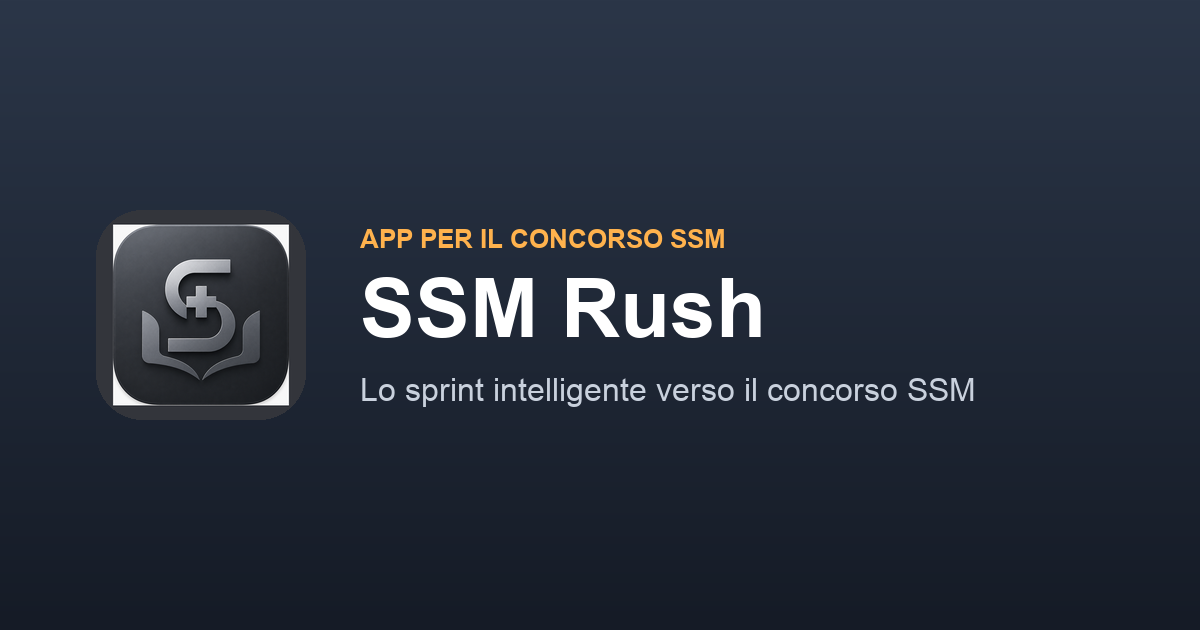
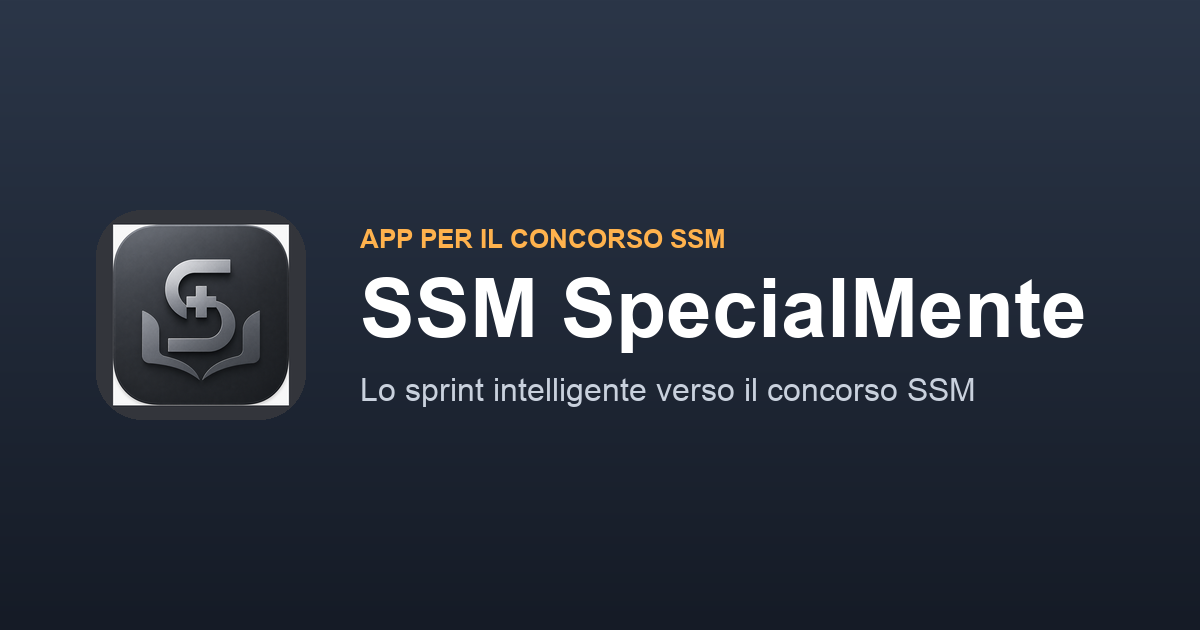
Rebrand to SSM SpecialMente

Changed region(s): [[0.4625, 0.4222, 0.925, 0.573]]

diff --git a/index.html b/index.html
@@ -1,4 +1,4 @@
-<!doctype html><html lang="it"><head><meta charset="utf-8"><meta name="viewport" content="width=device-width, initial-scale=1"><title>SSM Rush — App per il concorso SSM: quiz, simulazioni e ripasso</title><meta name="description" content="App offline per la preparazione al concorso di Specializzazione in Medicina (SSM): oltre 3.000 quesiti, simulazioni d&#x27;esame, coach adattivo e ripasso distanziato. Per iPhone e Android."><meta name="robots" content="noindex, nofollow"><link rel="canonical" href="https://neuronbuilds.github.io/ssmrush/"><meta name="theme-color" content="#222c3a"><link rel="icon" href="img/favicon.png"><meta property="og:type" content="website"><meta property="og:site_name" content="SSM Rush"><meta property="og:locale" content="it_IT"><meta property="og:title" content="SSM Rush — App per il concorso SSM: quiz, simulazioni e ripasso"><meta property="og:description" content="App offline per la preparazione al concorso di Specializzazione in Medicina (SSM): oltre 3.000 quesiti, simulazioni d&#x27;esame, coach adattivo e ripasso distanziato. Per iPhone e Android."><meta property="og:url" content="https://neuronbuilds.github.io/ssmrush/"><meta property="og:image" content="https://neuronbuilds.github.io/ssmrush/img/og-image.png"><meta property="og:image:width" content="1200"><meta property="og:image:height" content="630"><meta name="twitter:card" content="summary_large_image"><meta name="twitter:title" content="SSM Rush — App per il concorso SSM: quiz, simulazioni e ripasso"><meta name="twitter:description" content="App offline per la preparazione al concorso di Specializzazione in Medicina (SSM): oltre 3.000 quesiti, simulazioni d&#x27;esame, coach adattivo e ripasso distanziato. Per iPhone e Android."><meta name="twitter:image" content="https://neuronbuilds.github.io/ssmrush/img/og-image.png"><style>
+<!doctype html><html lang="it"><head><meta charset="utf-8"><meta name="viewport" content="width=device-width, initial-scale=1"><title>SSM SpecialMente — App per il concorso SSM: quiz, simulazioni e ripasso</title><meta name="description" content="App offline per la preparazione al concorso di Specializzazione in Medicina (SSM): oltre 3.000 quesiti, simulazioni d&#x27;esame, coach adattivo e ripasso distanziato. Per iPhone e Android."><meta name="robots" content="noindex, nofollow"><link rel="canonical" href="https://neuronbuilds.github.io/ssmrush/"><meta name="theme-color" content="#222c3a"><link rel="icon" href="img/favicon.png"><meta property="og:type" content="website"><meta property="og:site_name" content="SSM SpecialMente"><meta property="og:locale" content="it_IT"><meta property="og:title" content="SSM SpecialMente — App per il concorso SSM: quiz, simulazioni e ripasso"><meta property="og:description" content="App offline per la preparazione al concorso di Specializzazione in Medicina (SSM): oltre 3.000 quesiti, simulazioni d&#x27;esame, coach adattivo e ripasso distanziato. Per iPhone e Android."><meta property="og:url" content="https://neuronbuilds.github.io/ssmrush/"><meta property="og:image" content="https://neuronbuilds.github.io/ssmrush/img/og-image.png"><meta property="og:image:width" content="1200"><meta property="og:image:height" content="630"><meta name="twitter:card" content="summary_large_image"><meta name="twitter:title" content="SSM SpecialMente — App per il concorso SSM: quiz, simulazioni e ripasso"><meta name="twitter:description" content="App offline per la preparazione al concorso di Specializzazione in Medicina (SSM): oltre 3.000 quesiti, simulazioni d&#x27;esame, coach adattivo e ripasso distanziato. Per iPhone e Android."><meta name="twitter:image" content="https://neuronbuilds.github.io/ssmrush/img/og-image.png"><style>
 :root{--bg:#f4f6f9;--card:#fff;--ink:#1f2733;--muted:#5b6472;--accent:#e87a00;--accent2:#ffb24d;--navy:#222c3a;--deep:#151b26;--line:#e6e9ee}
 *{box-sizing:border-box}html{scroll-behavior:smooth}
 body{margin:0;background:var(--bg);color:var(--ink);font:16px/1.65 -apple-system,BlinkMacSystemFont,"Segoe UI",Roboto,Helvetica,Arial,sans-serif;-webkit-font-smoothing:antialiased}
@@ -46,11 +46,11 @@ footer .small{font-size:12.5px;color:#7f8896;max-width:620px;margin:16px auto 0;
 .owner{background:#fbf3e6;border-left:4px solid var(--accent);border-radius:8px;padding:12px 16px;font-size:14.5px;margin:0 0 1.2em}
 .card ul{padding-left:1.2em}.card li{margin:.3em 0}
 @media(max-width:720px){.hero h1{font-size:36px}.why,.feat{grid-template-columns:1fr}.nav a.hidem{display:none}}
-</style></head><body><div class="nav"><div class="in"><div class="logo">SSM</div><b>SSM Rush</b><span class="sp"></span><a href="privacy.html">Privacy</a><a href="supporto.html">Supporto</a></div></div>
+</style></head><body><div class="nav"><div class="in"><div class="logo">SSM</div><b>SSM SpecialMente</b><span class="sp"></span><a href="privacy.html">Privacy</a><a href="supporto.html">Supporto</a></div></div>
 <header class="hero" style="padding:118px 20px 128px">
-  <img class="icon" src="img/icon.png" alt="Icona SSM Rush">
+  <img class="icon" src="img/icon.png" alt="Icona SSM SpecialMente">
   <div class="eyebrow">Concorso SSM · Preparazione</div>
-  <h1>SSM Rush</h1>
+  <h1>SSM SpecialMente</h1>
   <p class="lead">Presto disponibile.</p>
   <p class="sub">L'app per la preparazione al concorso SSM — oltre 3.000 quesiti, simulazioni d'esame e coach adattivo, tutto offline — sta arrivando su App Store e Google Play.</p>
   <div class="badges">

diff --git a/privacy.html b/privacy.html
@@ -1,4 +1,4 @@
-<!doctype html><html lang="it"><head><meta charset="utf-8"><meta name="viewport" content="width=device-width, initial-scale=1"><title>Privacy — SSM Rush</title><meta name="description" content="Informativa sulla privacy dell&#x27;app SSM Rush: nessun dato personale raccolto, tutto offline. Titolare: Arianna Cocchiglia (Neuron Builds)."><meta name="robots" content="noindex, nofollow"><link rel="canonical" href="https://neuronbuilds.github.io/ssmrush/privacy.html"><meta name="theme-color" content="#222c3a"><link rel="icon" href="img/favicon.png"><meta property="og:type" content="website"><meta property="og:site_name" content="SSM Rush"><meta property="og:locale" content="it_IT"><meta property="og:title" content="Privacy — SSM Rush"><meta property="og:description" content="Informativa sulla privacy dell&#x27;app SSM Rush: nessun dato personale raccolto, tutto offline. Titolare: Arianna Cocchiglia (Neuron Builds)."><meta property="og:url" content="https://neuronbuilds.github.io/ssmrush/privacy.html"><meta property="og:image" content="https://neuronbuilds.github.io/ssmrush/img/og-image.png"><meta property="og:image:width" content="1200"><meta property="og:image:height" content="630"><meta name="twitter:card" content="summary_large_image"><meta name="twitter:title" content="Privacy — SSM Rush"><meta name="twitter:description" content="Informativa sulla privacy dell&#x27;app SSM Rush: nessun dato personale raccolto, tutto offline. Titolare: Arianna Cocchiglia (Neuron Builds)."><meta name="twitter:image" content="https://neuronbuilds.github.io/ssmrush/img/og-image.png"><style>
+<!doctype html><html lang="it"><head><meta charset="utf-8"><meta name="viewport" content="width=device-width, initial-scale=1"><title>Privacy — SSM SpecialMente</title><meta name="description" content="Informativa sulla privacy dell&#x27;app SSM SpecialMente: nessun dato personale raccolto, tutto offline. Titolare: Arianna Cocchiglia (Neuron Builds)."><meta name="robots" content="noindex, nofollow"><link rel="canonical" href="https://neuronbuilds.github.io/ssmrush/privacy.html"><meta name="theme-color" content="#222c3a"><link rel="icon" href="img/favicon.png"><meta property="og:type" content="website"><meta property="og:site_name" content="SSM SpecialMente"><meta property="og:locale" content="it_IT"><meta property="og:title" content="Privacy — SSM SpecialMente"><meta property="og:description" content="Informativa sulla privacy dell&#x27;app SSM SpecialMente: nessun dato personale raccolto, tutto offline. Titolare: Arianna Cocchiglia (Neuron Builds)."><meta property="og:url" content="https://neuronbuilds.github.io/ssmrush/privacy.html"><meta property="og:image" content="https://neuronbuilds.github.io/ssmrush/img/og-image.png"><meta property="og:image:width" content="1200"><meta property="og:image:height" content="630"><meta name="twitter:card" content="summary_large_image"><meta name="twitter:title" content="Privacy — SSM SpecialMente"><meta name="twitter:description" content="Informativa sulla privacy dell&#x27;app SSM SpecialMente: nessun dato personale raccolto, tutto offline. Titolare: Arianna Cocchiglia (Neuron Builds)."><meta name="twitter:image" content="https://neuronbuilds.github.io/ssmrush/img/og-image.png"><style>
 :root{--bg:#f4f6f9;--card:#fff;--ink:#1f2733;--muted:#5b6472;--accent:#e87a00;--accent2:#ffb24d;--navy:#222c3a;--deep:#151b26;--line:#e6e9ee}
 *{box-sizing:border-box}html{scroll-behavior:smooth}
 body{margin:0;background:var(--bg);color:var(--ink);font:16px/1.65 -apple-system,BlinkMacSystemFont,"Segoe UI",Roboto,Helvetica,Arial,sans-serif;-webkit-font-smoothing:antialiased}
@@ -46,8 +46,8 @@ footer .small{font-size:12.5px;color:#7f8896;max-width:620px;margin:16px auto 0;
 .owner{background:#fbf3e6;border-left:4px solid var(--accent);border-radius:8px;padding:12px 16px;font-size:14.5px;margin:0 0 1.2em}
 .card ul{padding-left:1.2em}.card li{margin:.3em 0}
 @media(max-width:720px){.hero h1{font-size:36px}.why,.feat{grid-template-columns:1fr}.nav a.hidem{display:none}}
-</style></head><body><div class="nav"><div class="in"><div class="logo">SSM</div><b>SSM Rush</b><span class="sp"></span><a href="privacy.html">Privacy</a><a href="supporto.html">Supporto</a></div></div><div class="wrap"><main class="card"><h1>Informativa sulla Privacy</h1><p class="updated">Ultimo aggiornamento: giugno 2026</p><p class="owner"><strong>Titolare del trattamento:</strong> Arianna Cocchiglia (operante come <em>Neuron Builds</em>) — Via Luigi Lucatello 2, 35121 Padova (PD), Italia — <a href="mailto:[email redacted]">[email redacted]</a></p><h2>In breve</h2>
-<p><strong>SSM Rush non raccoglie, non trasmette e non condivide alcun dato personale.</strong> L&#x27;app funziona interamente <strong>offline</strong>: tutto ciò che riguarda il tuo utilizzo resta <strong>solo sul tuo dispositivo</strong>.</p>
+</style></head><body><div class="nav"><div class="in"><div class="logo">SSM</div><b>SSM SpecialMente</b><span class="sp"></span><a href="privacy.html">Privacy</a><a href="supporto.html">Supporto</a></div></div><div class="wrap"><main class="card"><h1>Informativa sulla Privacy</h1><p class="updated">Ultimo aggiornamento: giugno 2026</p><p class="owner"><strong>Titolare del trattamento:</strong> Arianna Cocchiglia (operante come <em>Neuron Builds</em>) — Via Luigi Lucatello 2, 35121 Padova (PD), Italia — <a href="mailto:[email redacted]">[email redacted]</a></p><h2>In breve</h2>
+<p><strong>SSM SpecialMente non raccoglie, non trasmette e non condivide alcun dato personale.</strong> L&#x27;app funziona interamente <strong>offline</strong>: tutto ciò che riguarda il tuo utilizzo resta <strong>solo sul tuo dispositivo</strong>.</p>
 <h2>Dati che NON raccogliamo</h2>
 <p>Non chiediamo registrazione né login. Non raccogliamo nome, cognome, email, numero di telefono, posizione, contatti, foto, identificativi pubblicitari o del dispositivo. Non utilizziamo cookie, sistemi di analytics o tracciamento, né pubblicità.</p>
 <h2>Dati salvati solo sul tuo dispositivo</h2>

diff --git a/supporto.html b/supporto.html
@@ -1,4 +1,4 @@
-<!doctype html><html lang="it"><head><meta charset="utf-8"><meta name="viewport" content="width=device-width, initial-scale=1"><title>Supporto e FAQ — SSM Rush</title><meta name="description" content="Assistenza e domande frequenti su SSM Rush, l&#x27;app offline per la preparazione al concorso SSM. Contatto: [email redacted]."><meta name="robots" content="noindex, nofollow"><link rel="canonical" href="https://neuronbuilds.github.io/ssmrush/supporto.html"><meta name="theme-color" content="#222c3a"><link rel="icon" href="img/favicon.png"><meta property="og:type" content="website"><meta property="og:site_name" content="SSM Rush"><meta property="og:locale" content="it_IT"><meta property="og:title" content="Supporto e FAQ — SSM Rush"><meta property="og:description" content="Assistenza e domande frequenti su SSM Rush, l&#x27;app offline per la preparazione al concorso SSM. Contatto: [email redacted]."><meta property="og:url" content="https://neuronbuilds.github.io/ssmrush/supporto.html"><meta property="og:image" content="https://neuronbuilds.github.io/ssmrush/img/og-image.png"><meta property="og:image:width" content="1200"><meta property="og:image:height" content="630"><meta name="twitter:card" content="summary_large_image"><meta name="twitter:title" content="Supporto e FAQ — SSM Rush"><meta name="twitter:description" content="Assistenza e domande frequenti su SSM Rush, l&#x27;app offline per la preparazione al concorso SSM. Contatto: [email redacted]."><meta name="twitter:image" content="https://neuronbuilds.github.io/ssmrush/img/og-image.png"><style>
+<!doctype html><html lang="it"><head><meta charset="utf-8"><meta name="viewport" content="width=device-width, initial-scale=1"><title>Supporto e FAQ — SSM SpecialMente</title><meta name="description" content="Assistenza e domande frequenti su SSM SpecialMente, l&#x27;app offline per la preparazione al concorso SSM. Contatto: [email redacted]."><meta name="robots" content="noindex, nofollow"><link rel="canonical" href="https://neuronbuilds.github.io/ssmrush/supporto.html"><meta name="theme-color" content="#222c3a"><link rel="icon" href="img/favicon.png"><meta property="og:type" content="website"><meta property="og:site_name" content="SSM SpecialMente"><meta property="og:locale" content="it_IT"><meta property="og:title" content="Supporto e FAQ — SSM SpecialMente"><meta property="og:description" content="Assistenza e domande frequenti su SSM SpecialMente, l&#x27;app offline per la preparazione al concorso SSM. Contatto: [email redacted]."><meta property="og:url" content="https://neuronbuilds.github.io/ssmrush/supporto.html"><meta property="og:image" content="https://neuronbuilds.github.io/ssmrush/img/og-image.png"><meta property="og:image:width" content="1200"><meta property="og:image:height" content="630"><meta name="twitter:card" content="summary_large_image"><meta name="twitter:title" content="Supporto e FAQ — SSM SpecialMente"><meta name="twitter:description" content="Assistenza e domande frequenti su SSM SpecialMente, l&#x27;app offline per la preparazione al concorso SSM. Contatto: [email redacted]."><meta name="twitter:image" content="https://neuronbuilds.github.io/ssmrush/img/og-image.png"><style>
 :root{--bg:#f4f6f9;--card:#fff;--ink:#1f2733;--muted:#5b6472;--accent:#e87a00;--accent2:#ffb24d;--navy:#222c3a;--deep:#151b26;--line:#e6e9ee}
 *{box-sizing:border-box}html{scroll-behavior:smooth}
 body{margin:0;background:var(--bg);color:var(--ink);font:16px/1.65 -apple-system,BlinkMacSystemFont,"Segoe UI",Roboto,Helvetica,Arial,sans-serif;-webkit-font-smoothing:antialiased}
@@ -46,11 +46,11 @@ footer .small{font-size:12.5px;color:#7f8896;max-width:620px;margin:16px auto 0;
 .owner{background:#fbf3e6;border-left:4px solid var(--accent);border-radius:8px;padding:12px 16px;font-size:14.5px;margin:0 0 1.2em}
 .card ul{padding-left:1.2em}.card li{margin:.3em 0}
 @media(max-width:720px){.hero h1{font-size:36px}.why,.feat{grid-template-columns:1fr}.nav a.hidem{display:none}}
-</style></head><body><div class="nav"><div class="in"><div class="logo">SSM</div><b>SSM Rush</b><span class="sp"></span><a href="privacy.html">Privacy</a><a href="supporto.html">Supporto</a></div></div><div class="wrap"><main class="card"><h1>Supporto</h1><p>Hai bisogno di aiuto con <strong>SSM Rush</strong>? Siamo qui.</p>
+</style></head><body><div class="nav"><div class="in"><div class="logo">SSM</div><b>SSM SpecialMente</b><span class="sp"></span><a href="privacy.html">Privacy</a><a href="supporto.html">Supporto</a></div></div><div class="wrap"><main class="card"><h1>Supporto</h1><p>Hai bisogno di aiuto con <strong>SSM SpecialMente</strong>? Siamo qui.</p>
 <p><strong>Contatto:</strong> <a href="mailto:[email redacted]">[email redacted]</a> <strong>Tempi di risposta:</strong> in genere entro 2–3 giorni lavorativi.</p>
 <p>Quando ci scrivi, indica il <strong>modello del dispositivo</strong> e la <strong>versione del sistema operativo</strong>: ci aiuta a risponderti più in fretta.</p>
 <h2>Domande frequenti</h2>
-<p><strong>Serve una connessione a internet?</strong> No. SSM Rush funziona completamente offline: tutti i contenuti sono già inclusi nell&#x27;app.</p>
+<p><strong>Serve una connessione a internet?</strong> No. SSM SpecialMente funziona completamente offline: tutti i contenuti sono già inclusi nell&#x27;app.</p>
 <p><strong>Devo creare un account o registrarmi?</strong> No. Non c&#x27;è alcun login: apri l&#x27;app e tutte le funzioni sono subito disponibili.</p>
 <p><strong>Raccogliete i miei dati?</strong> No. L&#x27;app non raccoglie né trasmette dati personali; i progressi restano solo sul tuo dispositivo. Vedi l&#x27;Informativa sulla Privacy.</p>
 <p><strong>Come azzero i miei progressi e le statistiche?</strong> Dalla sezione <strong>Progressi</strong> dell&#x27;app, usa la funzione <strong>&quot;Azzera statistiche&quot;</strong>. In alternativa, disinstallando l&#x27;app rimuovi tutti i dati locali.</p>

diff --git a/build_site.py b/build_site.py
@@ -1,6 +1,6 @@
 #!/usr/bin/env python3
 """
-Genera il sito web di SSM Rush (landing + Privacy + Supporto), pronto per GitHub Pages.
+Genera il sito web di SSM SpecialMente (landing + Privacy + Supporto), pronto per GitHub Pages.
 - Prepara le immagini (icona + screenshot) in site/img/ dai file in ../store-assets/
 - Scrive index.html (landing marketing) + privacy.html + supporto.html
 Fonte testi legali: ../legal/*.md   ·   Uso: python3 site/build_site.py
@@ -23,16 +23,16 @@ COMING_SOON = True
 # Per-page SEO metadata (keyword-rich, unique titles + descriptions)
 META = {
     "index.html": dict(
-        title="SSM Rush — App per il concorso SSM: quiz, simulazioni e ripasso",
+        title="SSM SpecialMente — App per il concorso SSM: quiz, simulazioni e ripasso",
         desc="App offline per la preparazione al concorso di Specializzazione in Medicina (SSM): oltre 3.000 quesiti, simulazioni d'esame, coach adattivo e ripasso distanziato. Per iPhone e Android.",
         app=True, prio="1.0"),
     "privacy.html": dict(
-        title="Privacy — SSM Rush",
-        desc="Informativa sulla privacy dell'app SSM Rush: nessun dato personale raccolto, tutto offline. Titolare: Arianna Cocchiglia (Neuron Builds).",
+        title="Privacy — SSM SpecialMente",
+        desc="Informativa sulla privacy dell'app SSM SpecialMente: nessun dato personale raccolto, tutto offline. Titolare: Arianna Cocchiglia (Neuron Builds).",
         app=False, prio="0.3"),
     "supporto.html": dict(
-        title="Supporto e FAQ — SSM Rush",
-        desc="Assistenza e domande frequenti su SSM Rush, l'app offline per la preparazione al concorso SSM. Contatto: [email redacted].",
+        title="Supporto e FAQ — SSM SpecialMente",
+        desc="Assistenza e domande frequenti su SSM SpecialMente, l'app offline per la preparazione al concorso SSM. Contatto: [email redacted].",
         app=False, prio="0.3"),
 }
 
@@ -101,7 +101,7 @@ def head(path, m):
     if m.get("app") and not COMING_SOON:
         obj = {
             "@context":"https://schema.org","@type":"MobileApplication",
-            "name":"SSM Rush","operatingSystem":"iOS, Android",
+            "name":"SSM SpecialMente","operatingSystem":"iOS, Android",
             "applicationCategory":"EducationalApplication","inLanguage":"it",
             "description":m["desc"],"image":BASE+"/img/icon.png","url":BASE+"/",
             "publisher":{"@type":"Organization","name":"Neuron Builds","email":EMAIL},
@@ -117,7 +117,7 @@ def head(path, m):
         '<meta name="theme-color" content="#222c3a">'
         '<link rel="icon" href="img/favicon.png">'
         '<meta property="og:type" content="website">'
-        '<meta property="og:site_name" content="SSM Rush">'
+        '<meta property="og:site_name" content="SSM SpecialMente">'
         '<meta property="og:locale" content="it_IT">'
         f'<meta property="og:title" content="{t}">'
         f'<meta property="og:description" content="{d}">'
@@ -135,7 +135,7 @@ def head(path, m):
 def nav():
     extra = "" if COMING_SOON else ('<a class="hidem" href="index.html#funzioni">Funzioni</a>'
                                     '<a class="hidem" href="index.html#screenshot">Screenshot</a>')
-    return ('<div class="nav"><div class="in"><div class="logo">SSM</div><b>SSM Rush</b>'
+    return ('<div class="nav"><div class="in"><div class="logo">SSM</div><b>SSM SpecialMente</b>'
             '<span class="sp"></span>' + extra +
             '<a href="privacy.html">Privacy</a><a href="supporto.html">Supporto</a></div></div>')
 
@@ -200,7 +200,7 @@ def prep_images():
     mask=Image.new("L",(210,210),0); ImageDraw.Draw(mask).rounded_rectangle([0,0,209,209],radius=46,fill=255)
     og.paste(icon,(96,210),mask)
     d.text((360,224),"APP PER IL CONCORSO SSM",font=ImageFont.truetype(F_BOLD,26),fill=(255,178,77))
-    d.text((360,262),"SSM Rush",font=ImageFont.truetype(F_BOLD,82),fill=(255,255,255))
+    d.text((360,262),"SSM SpecialMente",font=ImageFont.truetype(F_BOLD,82),fill=(255,255,255))
     d.text((360,372),"Lo sprint intelligente verso il concorso SSM",font=ImageFont.truetype(F_REG,32),fill=(201,209,221))
     og.save(os.path.join(IMG,"og-image.png"))
 
@@ -233,9 +233,9 @@ def landing():
         for fn,cap in SHOTS)
     return f"""
 <header class="hero">
-  <img class="icon" src="img/icon.png" alt="Icona SSM Rush">
+  <img class="icon" src="img/icon.png" alt="Icona SSM SpecialMente">
   <div class="eyebrow">App di preparazione · Concorso SSM</div>
-  <h1>SSM Rush</h1>
+  <h1>SSM SpecialMente</h1>
   <p class="lead">Lo sprint intelligente verso il concorso SSM.</p>
   <p class="sub">Coach adattivo, simulazioni come la prova reale e ripasso distanziato — oltre 3.000 quesiti, tutto offline. Quesiti tarati un gradino sopra la prova: arrivi al concorso in vantaggio.</p>
   <div class="badges">
@@ -245,7 +245,7 @@ def landing():
 </header>
 
 <section id="perche"><div class="in">
-  <h2 class="t">Perché SSM Rush è diversa</h2>
+  <h2 class="t">Perché SSM SpecialMente è diversa</h2>
   <p class="lede">Non è l'ennesimo archivio di domande da scorrere a caso: ti dice cosa ripassare e ti allena come alla prova vera.</p>
   <div class="highlight"><div class="ic">📈</div><div><b>Tarati per portarti più in alto</b><p>I quesiti sono pensati un gradino sopra la prova reale — distrattori curati e casi clinici realistici. È un allenamento volutamente esigente: se te la cavi qui, al concorso arrivi con un solido margine di vantaggio.</p></div></div>
   <div class="why">{why}</div>
@@ -268,9 +268,9 @@ def landing():
 def coming_soon():
     return """
 <header class="hero" style="padding:118px 20px 128px">
-  <img class="icon" src="img/icon.png" alt="Icona SSM Rush">
+  <img class="icon" src="img/icon.png" alt="Icona SSM SpecialMente">
   <div class="eyebrow">Concorso SSM · Preparazione</div>
-  <h1>SSM Rush</h1>
+  <h1>SSM SpecialMente</h1>
   <p class="lead">Presto disponibile.</p>
   <p class="sub">L'app per la preparazione al concorso SSM — oltre 3.000 quesiti, simulazioni d'esame e coach adattivo, tutto offline — sta arrivando su App Store e Google Play.</p>
   <div class="badges">